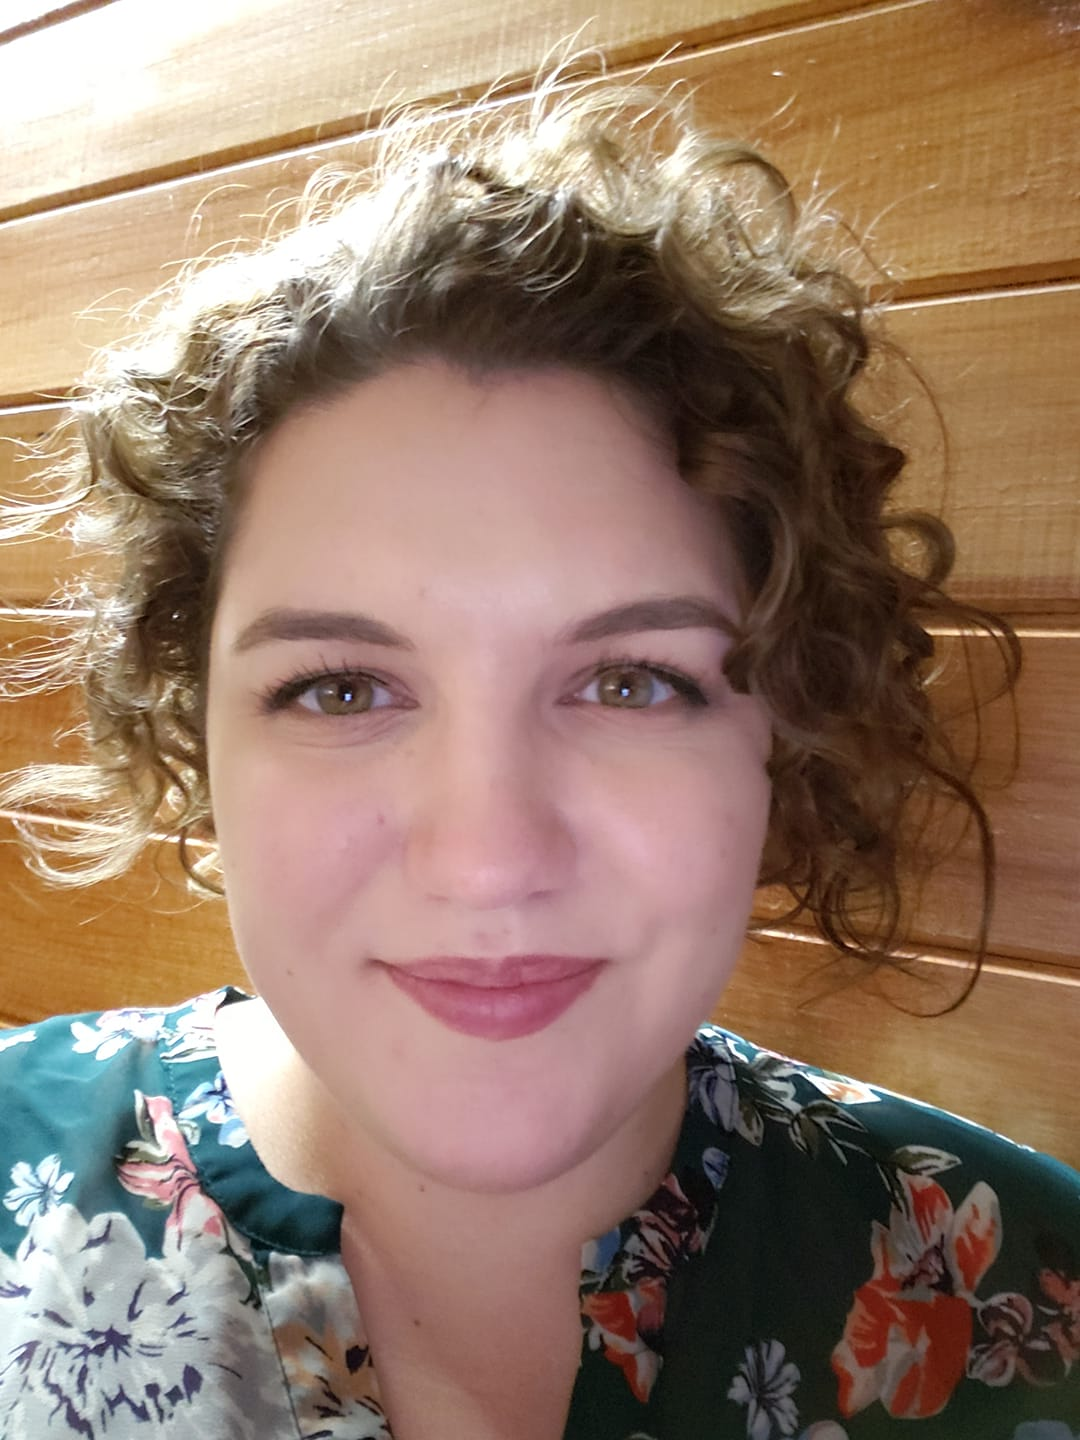
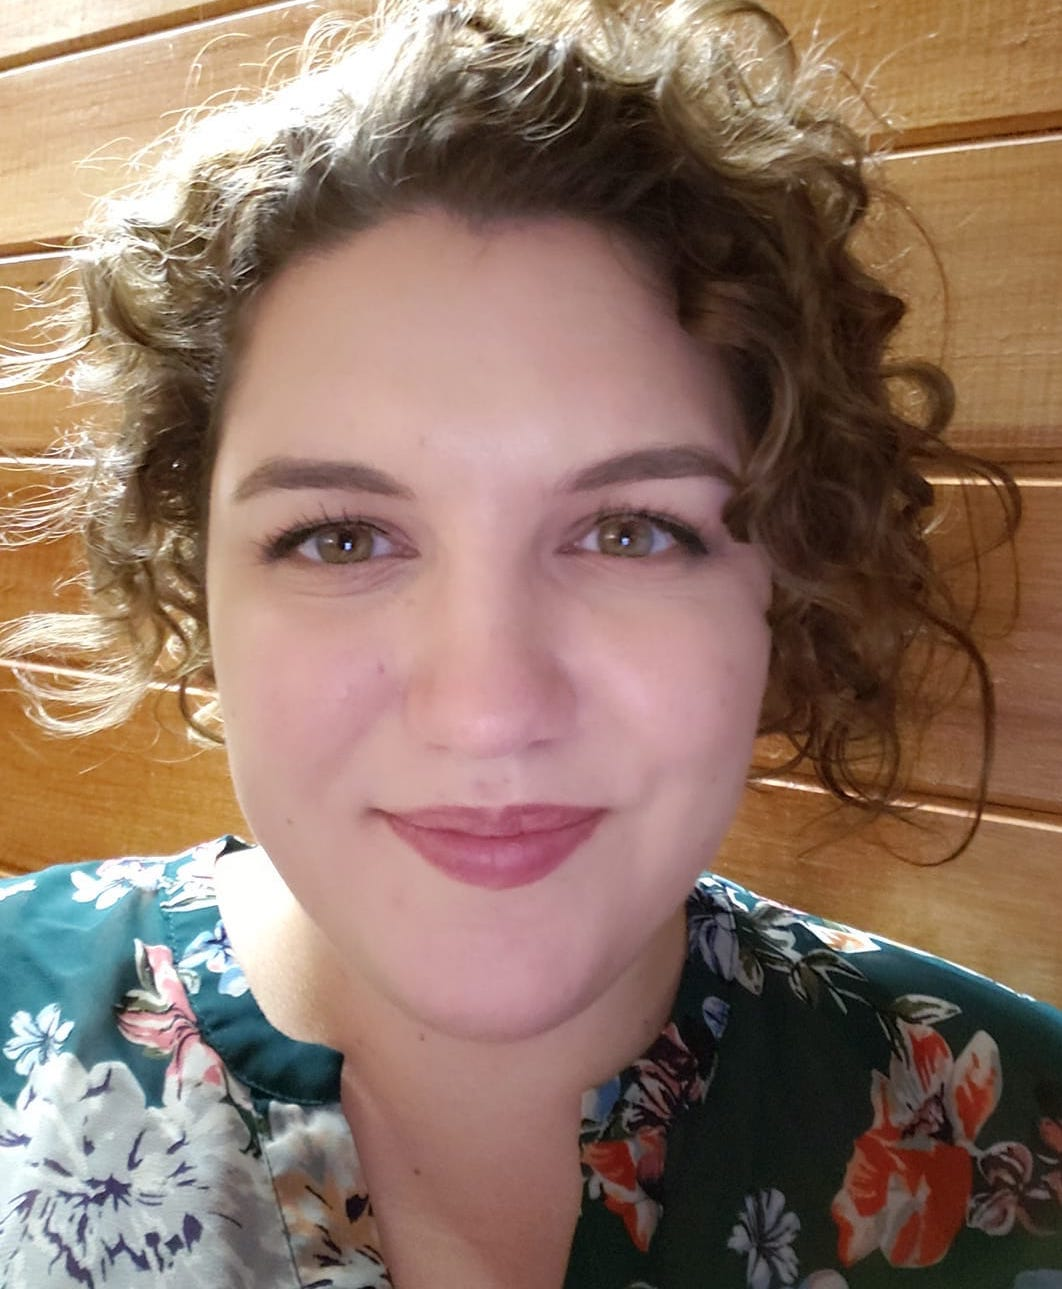
updated layout

diff --git a/index.html b/index.html
@@ -14,17 +14,17 @@
           <div id='contact'>
             <p class='name'>Kira Porter</p>
             <span class='contact-info'>
-              <img class='icon' src='./public/images/phone.png'>
+              <img class='icon' src='./public/images/git.png'>
+              <a href="https://github.com/kcdporter" target="_blank"> Github: kcdporter</a>
+              <img class='icon2' src='./public/images/cell.png'>
               <a href="tel:778-847-3703">778-847-3703</a>
-              <img class='icon2' src='./public/images/email.png'>
+              <img class='icon2' src='./public/images/mail.png'>
               <a href = "kiracdporter@gmail.com">kiracdporter@gmail.com</a>
-              <img class='icon2' src='./public/images/Github.png'>
-              <a href="https://github.com/kcdporter" target="_blank"> kcdporter</a>
-              <img class='icon3' src='./public/images/LinkedIn.png'>
-              <a href="https://www.linkedin.com/in/kira-porter-412aa117b/" target="_blank"> linkedin: Kira Porter</a>
+              <img class='icon3' src='./public/images/linked.png'>
+              <a href="https://www.linkedin.com/in/kira-porter-412aa117b/" target="_blank"> LinkedIn: Kira Porter</a>
             </span>
         </div>
-        <img id='profile-picture' src='./public/images/profile.jpg'>
+        <img id='profile-picture' src='./public/images/Kira_round.png'>
         </div>
       </header>
       <main>
@@ -40,6 +40,30 @@
               </p>
             </span>
           </div>
+          <div id='projects'>
+              <h2 class='heading'> Projects </h2>
+              <span>
+                <span class='align'>
+                <a href="https://github.com/kcdporter/TinyApp" target="_blank" class='project-link'>TinyApp</a>
+                <h4 class='date'>March 2019</h4>
+                </span>
+                <p>A web-app to shorten long URLs, utilizing Node.js, HTML, CSS, Express, Bcrypt, and Cookie-Sessions.</p>
+              </span>
+              <span>
+                <span class='align'>
+                <a href="https://github.com/kcdporter/tweeter" target="_blank" class='project-link'>Tweeter</a>
+                <h4 class='date'>March 2019</h4>
+                </span>
+                <p>A web-app replication of Twitter, utilizing HTML, CSS,  JS, jQuery, AJAX, Express, and MongoDB. </p>
+              </span>
+              <span>
+                <span class='align'>
+                <a href="https://github.com/kcdporter/resource_wall" target="_blank" class='project-link'>The Waterhole</a>
+                <h4 class='date'>April 2019</h4>
+                </span>
+                <p>A group built web-app replication of Pinterest, utilizing Express, Bootstrap, Sass, jQuery, PostgreSQL, KNEX, and git.</p>
+              </span>
+            </div>
           <div id='Employment'>
             <h2 class='heading'> Employment </h2>
               <span>
@@ -92,32 +116,48 @@
                 </ul>
               </span>
             </div>
-            <div id='projects'>
-              <h2 class='heading'> Projects </h2>
-              <span>
-                <span class='align'>
-                <a href="https://github.com/kcdporter/TinyApp" target="_blank">TinyApp</a>
-                <h4 class='date'>March 2019</h4>
-                </span>
-                <p>A web-app to shorten long URLs, utilizing Node.js, HTML, CSS, Express, Bcrypt, and Cookie-Sessions.</p>
-              </span>
-              <span>
-                <span class='align'>
-                <a href="https://github.com/kcdporter/tweeter" target="_blank">Tweeter</a>
-                <h4 class='date'>March 2019</h4>
-                </span>
-                <p>A web-app replication of Twitter, utilizing HTML, CSS,  JS, jQuery, AJAX, Express, and MongoDB. </p>
-              </span>
-              <span>
-                <span class='align'>
-                <a href="https://github.com/kcdporter/resource_wall" target="_blank">The Waterhole</a>
-                <h4 class='date'>April 2019</h4>
-                </span>
-                <p>A group built web-app replication of Pinterest, utilizing Express, Bootstrap, Sass, jQuery, PostgreSQL, KNEX, and git.</p>
-              </span>
-            </div>
           </div>
           <div class=right>
+              <div id='Skills'>
+                  <h2 class='heading'> Skills </h2>
+                  <div class='list' id="devSkills">
+                    <span>
+                      <ul>
+                        <b>Languages & Frameworks:</b>
+                        <li>JavaScript</li>
+                        <li>CSS/Sass/ Bootstrap</li>
+                        <li>Node.js</li>
+                        <li>jQuery</li>
+                        <li>AJAX</li>
+                        <li>HTTP/HTTPS</li>
+                        <li>Websockets</li>
+                        <li>React</li>
+                        <li>Ruby on Rails</li>
+                      </ul>
+                    </span>
+                    <span>
+                      <ul>
+                      <b>Systems & Databases:</b>
+                        <li>Git / Github</li>
+                        <li>MongoDB</li>
+                        <li>PostgreSQL</li>
+                        <li>Knex</li>
+                      </ul>
+                    </span>
+                    <span>
+                      <ul>
+                        <b>Other:</b>
+                        <li>Conflict Resolution</li>
+                        <li>Teambuilding</li>
+                        <li>Sales Analysis</li>
+                        <li>Social Media</li>
+                        <li>Marketing</li>
+                        <li>Mechandaising</li>
+                        <li>Project Planning</li>
+                      </ul>
+                    </span>
+                  </div>
+            </div>
             <div class='education'>
               <h2 class='heading'> Education </h2>
               <div>
@@ -148,46 +188,6 @@
               </span>
             </div>
             </div>
-            <div id='Skills'>
-              <h2 class='heading'> Skills </h2>
-              <div class='list' id="devSkills">
-                <span>
-                  <ul>
-                    <b>Languages & Frameworks:</b>
-                    <li>JavaScript</li>
-                    <li>CSS/Sass/ Bootstrap</li>
-                    <li>Node.js</li>
-                    <li>jQuery</li>
-                    <li>AJAX</li>
-                    <li>HTTP/HTTPS</li>
-                    <li>Websockets</li>
-                    <li>React</li>
-                    <li>Ruby on Rails</li>
-                  </ul>
-                </span>
-                <span>
-                  <ul>
-                  <b>Systems & Databases:</b>
-                    <li>Git / Github</li>
-                    <li>MongoDB</li>
-                    <li>PostgreSQL</li>
-                    <li>Knex</li>
-                  </ul>
-                </span>
-                <span>
-                  <ul>
-                    <b>Other:</b>
-                    <li>Conflict Resolution</li>
-                    <li>Teambuilding</li>
-                    <li>Sales Analysis</li>
-                    <li>Social Media</li>
-                    <li>Marketing</li>
-                    <li>Mechandaising</li>
-                    <li>Project Planning</li>
-                  </ul>
-                </span>
-              </div>
-        </div>
             <div id='volunteering'>
               <h2 class='heading'> Volunteering </h2>
               <span>

diff --git a/public/styles/layout.scss b/public/styles/layout.scss
@@ -20,8 +20,9 @@ body {
 
     #profile-picture{
       width: auto;
-      height: 175px;
-      padding-right: 100px;
+      height: 200px;
+      margin-top: -1%;
+      margin-right: 10%;
     }
 
     .name{
@@ -32,17 +33,17 @@ body {
     .icon{
       height: 40px;
       width: 40px;
-      padding-right: 5px;
+      padding-right: 10px;
     }
     .icon2{
       height: 40px;
       width: 40px;
       padding-left: 40px;
-      padding-left: 40px;
+      padding-right: 10px;
     }
     .icon3{
-      height: 55px;
-      width: 55px;
+      height: 50px;
+      width: 50px;
       padding-left: 40px;
     }
     .contact{
@@ -54,15 +55,22 @@ body {
       flex-wrap: wrap;
       align-items: baseline;
       align-items: center;
+      font-size:18px;
       padding-top: 10px;
       width: auto;
       height: 35px;
-      font-size: 24px;
       margin:0;
     }
     a{
-     color: black !important;
-    }
+      color: black;
+      font-weight: bold;
+      &:visited {
+        color: #e74795;
+      }
+      &:hover {
+        color: #7dbc69;
+      }
+     }
   }
   main{
     display:flex;
@@ -76,13 +84,18 @@ body {
       width: 60%;
       margin-right: 10px;
       a{
-        color: black !important;
-        font-size: 24px;
+        color: black;
         font-weight: bold;
+        &:visited {
+          color: #cf5693;
+        }
+        &:hover {
+          color: #7dbc69;
+        }
        }
     }
     .right{
-      margin-left: 30px;
+      margin-left: 40px;
       width: 40%;
     }
 
@@ -105,6 +118,12 @@ body {
       display:flex;
       justify-content: space-between;
       margin-right: 30px;
+    }
+    .project-link{
+      font-size: 24px;
+    }
+    .project-link &:hover{
+      color: Green;
     }
     p{
       margin:0;

diff --git a/public/styles/layout.css b/public/styles/layout.css
@@ -26,8 +26,9 @@ body header .align {
 
 body header #profile-picture {
   width: auto;
-  height: 175px;
-  padding-right: 100px;
+  height: 200px;
+  margin-top: -1%;
+  margin-right: 10%;
 }
 
 body header .name {
@@ -39,19 +40,19 @@ body header .name {
 body header .icon {
   height: 40px;
   width: 40px;
-  padding-right: 5px;
+  padding-right: 10px;
 }
 
 body header .icon2 {
   height: 40px;
   width: 40px;
   padding-left: 40px;
-  padding-left: 40px;
+  padding-right: 10px;
 }
 
 body header .icon3 {
-  height: 55px;
-  width: 55px;
+  height: 50px;
+  width: 50px;
   padding-left: 40px;
 }
 
@@ -75,15 +76,24 @@ body header .contact-info {
   -webkit-box-align: center;
       -ms-flex-align: center;
           align-items: center;
+  font-size: 18px;
   padding-top: 10px;
   width: auto;
   height: 35px;
-  font-size: 24px;
   margin: 0;
 }
 
 body header a {
-  color: black !important;
+  color: black;
+  font-weight: bold;
+}
+
+body header a:visited {
+  color: #e74795;
+}
+
+body header a:hover {
+  color: #7dbc69;
 }
 
 body main {
@@ -105,13 +115,20 @@ body main .left {
 }
 
 body main .left a {
-  color: black !important;
-  font-size: 24px;
+  color: black;
   font-weight: bold;
 }
 
+body main .left a:visited {
+  color: #cf5693;
+}
+
+body main .left a:hover {
+  color: #7dbc69;
+}
+
 body main .right {
-  margin-left: 30px;
+  margin-left: 40px;
   width: 40%;
 }
 
@@ -145,6 +162,14 @@ body main .align {
       -ms-flex-pack: justify;
           justify-content: space-between;
   margin-right: 30px;
+}
+
+body main .project-link {
+  font-size: 24px;
+}
+
+.project-link body main:hover {
+  color: Green;
 }
 
 body main p {
